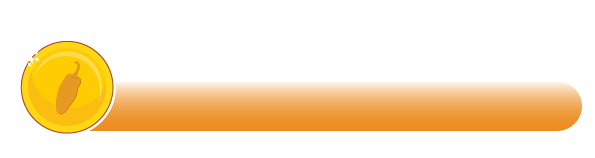
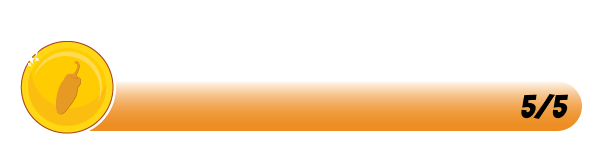
Added percent numbers to status bars

Changed region(s): [[0.8773, 0.5823, 0.9681, 0.7595]]

diff --git a/src/js/models/statusBars/status-bar-bottle.class.js b/src/js/models/statusBars/status-bar-bottle.class.js
@@ -1,11 +1,11 @@
 class StatusBarBottle extends StatusBar {
     IMAGES = [
-        "assets/img/7_statusbars/1_statusbar/3_statusbar_bottle/blue/0.png",
-        "assets/img/7_statusbars/1_statusbar/3_statusbar_bottle/blue/20.png",
-        "assets/img/7_statusbars/1_statusbar/3_statusbar_bottle/blue/40.png",
-        "assets/img/7_statusbars/1_statusbar/3_statusbar_bottle/blue/60.png",
-        "assets/img/7_statusbars/1_statusbar/3_statusbar_bottle/blue/80.png",
-        "assets/img/7_statusbars/1_statusbar/3_statusbar_bottle/blue/100.png",
+        "assets/img/7_statusbars/1_statusbar/3_statusbar_bottle/orange/0.png",
+        "assets/img/7_statusbars/1_statusbar/3_statusbar_bottle/orange/20.png",
+        "assets/img/7_statusbars/1_statusbar/3_statusbar_bottle/orange/40.png",
+        "assets/img/7_statusbars/1_statusbar/3_statusbar_bottle/orange/60.png",
+        "assets/img/7_statusbars/1_statusbar/3_statusbar_bottle/orange/80.png",
+        "assets/img/7_statusbars/1_statusbar/3_statusbar_bottle/orange/100.png",
     ];
 
     constructor() {

diff --git a/src/js/models/statusBars/status-bar-health.class.js b/src/js/models/statusBars/status-bar-health.class.js
@@ -1,11 +1,11 @@
 class StatusBarHealth extends StatusBar {
     IMAGES = [
-        "assets/img/7_statusbars/1_statusbar/2_statusbar_health/blue/0.png",
-        "assets/img/7_statusbars/1_statusbar/2_statusbar_health/blue/20.png",
-        "assets/img/7_statusbars/1_statusbar/2_statusbar_health/blue/40.png",
-        "assets/img/7_statusbars/1_statusbar/2_statusbar_health/blue/60.png",
-        "assets/img/7_statusbars/1_statusbar/2_statusbar_health/blue/80.png",
-        "assets/img/7_statusbars/1_statusbar/2_statusbar_health/blue/100.png"
+        "assets/img/7_statusbars/1_statusbar/2_statusbar_health/orange/0.png",
+        "assets/img/7_statusbars/1_statusbar/2_statusbar_health/orange/20.png",
+        "assets/img/7_statusbars/1_statusbar/2_statusbar_health/orange/40.png",
+        "assets/img/7_statusbars/1_statusbar/2_statusbar_health/orange/60.png",
+        "assets/img/7_statusbars/1_statusbar/2_statusbar_health/orange/80.png",
+        "assets/img/7_statusbars/1_statusbar/2_statusbar_health/orange/100.png"
     ];
 
     constructor() {

diff --git a/src/js/models/statusBars/status-bar-coin.class.js b/src/js/models/statusBars/status-bar-coin.class.js
@@ -1,11 +1,11 @@
 class StatusBarCoin extends StatusBar {
     IMAGES = [
-        "assets/img/7_statusbars/1_statusbar/1_statusbar_coin/blue/0.png",
-        "assets/img/7_statusbars/1_statusbar/1_statusbar_coin/blue/20.png",
-        "assets/img/7_statusbars/1_statusbar/1_statusbar_coin/blue/40.png",
-        "assets/img/7_statusbars/1_statusbar/1_statusbar_coin/blue/60.png",
-        "assets/img/7_statusbars/1_statusbar/1_statusbar_coin/blue/80.png",
-        "assets/img/7_statusbars/1_statusbar/1_statusbar_coin/blue/100.png"
+        "assets/img/7_statusbars/1_statusbar/1_statusbar_coin/orange/0.png",
+        "assets/img/7_statusbars/1_statusbar/1_statusbar_coin/orange/20.png",
+        "assets/img/7_statusbars/1_statusbar/1_statusbar_coin/orange/40.png",
+        "assets/img/7_statusbars/1_statusbar/1_statusbar_coin/orange/60.png",
+        "assets/img/7_statusbars/1_statusbar/1_statusbar_coin/orange/80.png",
+        "assets/img/7_statusbars/1_statusbar/1_statusbar_coin/orange/100.png"
     ];
 
     constructor() {

diff --git a/src/js/models/statusBars/status-bar-endboss.class.js b/src/js/models/statusBars/status-bar-endboss.class.js
@@ -1,11 +1,11 @@
 class StatusBarEndboss extends StatusBar {
     IMAGES = [
-        "assets/img/7_statusbars/2_statusbar_endboss/blue/blue0.png",
-        "assets/img/7_statusbars/2_statusbar_endboss/blue/blue20.png",
-        "assets/img/7_statusbars/2_statusbar_endboss/blue/blue40.png",
-        "assets/img/7_statusbars/2_statusbar_endboss/blue/blue60.png",
-        "assets/img/7_statusbars/2_statusbar_endboss/blue/blue80.png",
-        "assets/img/7_statusbars/2_statusbar_endboss/blue/blue100.png",
+        "assets/img/7_statusbars/2_statusbar_endboss/orange/orange0.png",
+        "assets/img/7_statusbars/2_statusbar_endboss/orange/orange20.png",
+        "assets/img/7_statusbars/2_statusbar_endboss/orange/orange40.png",
+        "assets/img/7_statusbars/2_statusbar_endboss/orange/orange60.png",
+        "assets/img/7_statusbars/2_statusbar_endboss/orange/orange80.png",
+        "assets/img/7_statusbars/2_statusbar_endboss/orange/orange100.png",
     ];
 
     constructor() {
